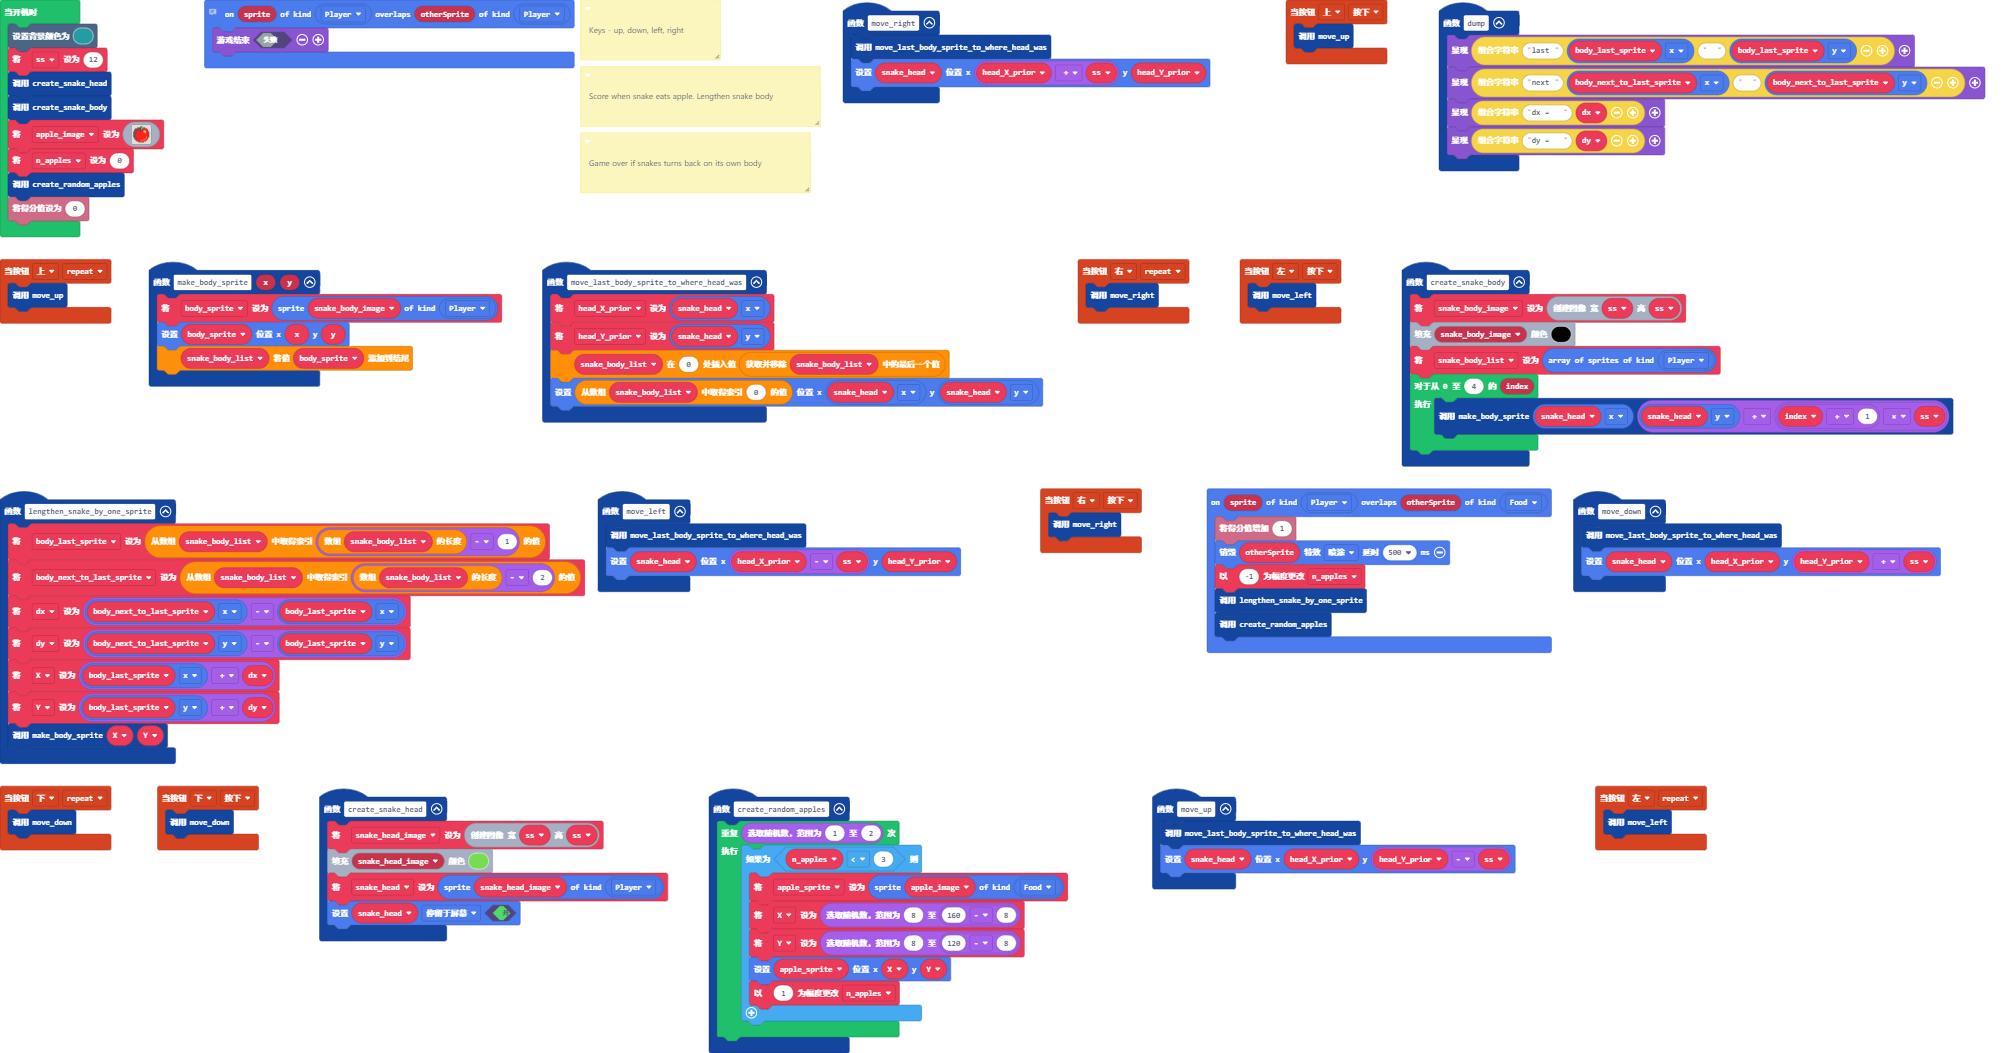
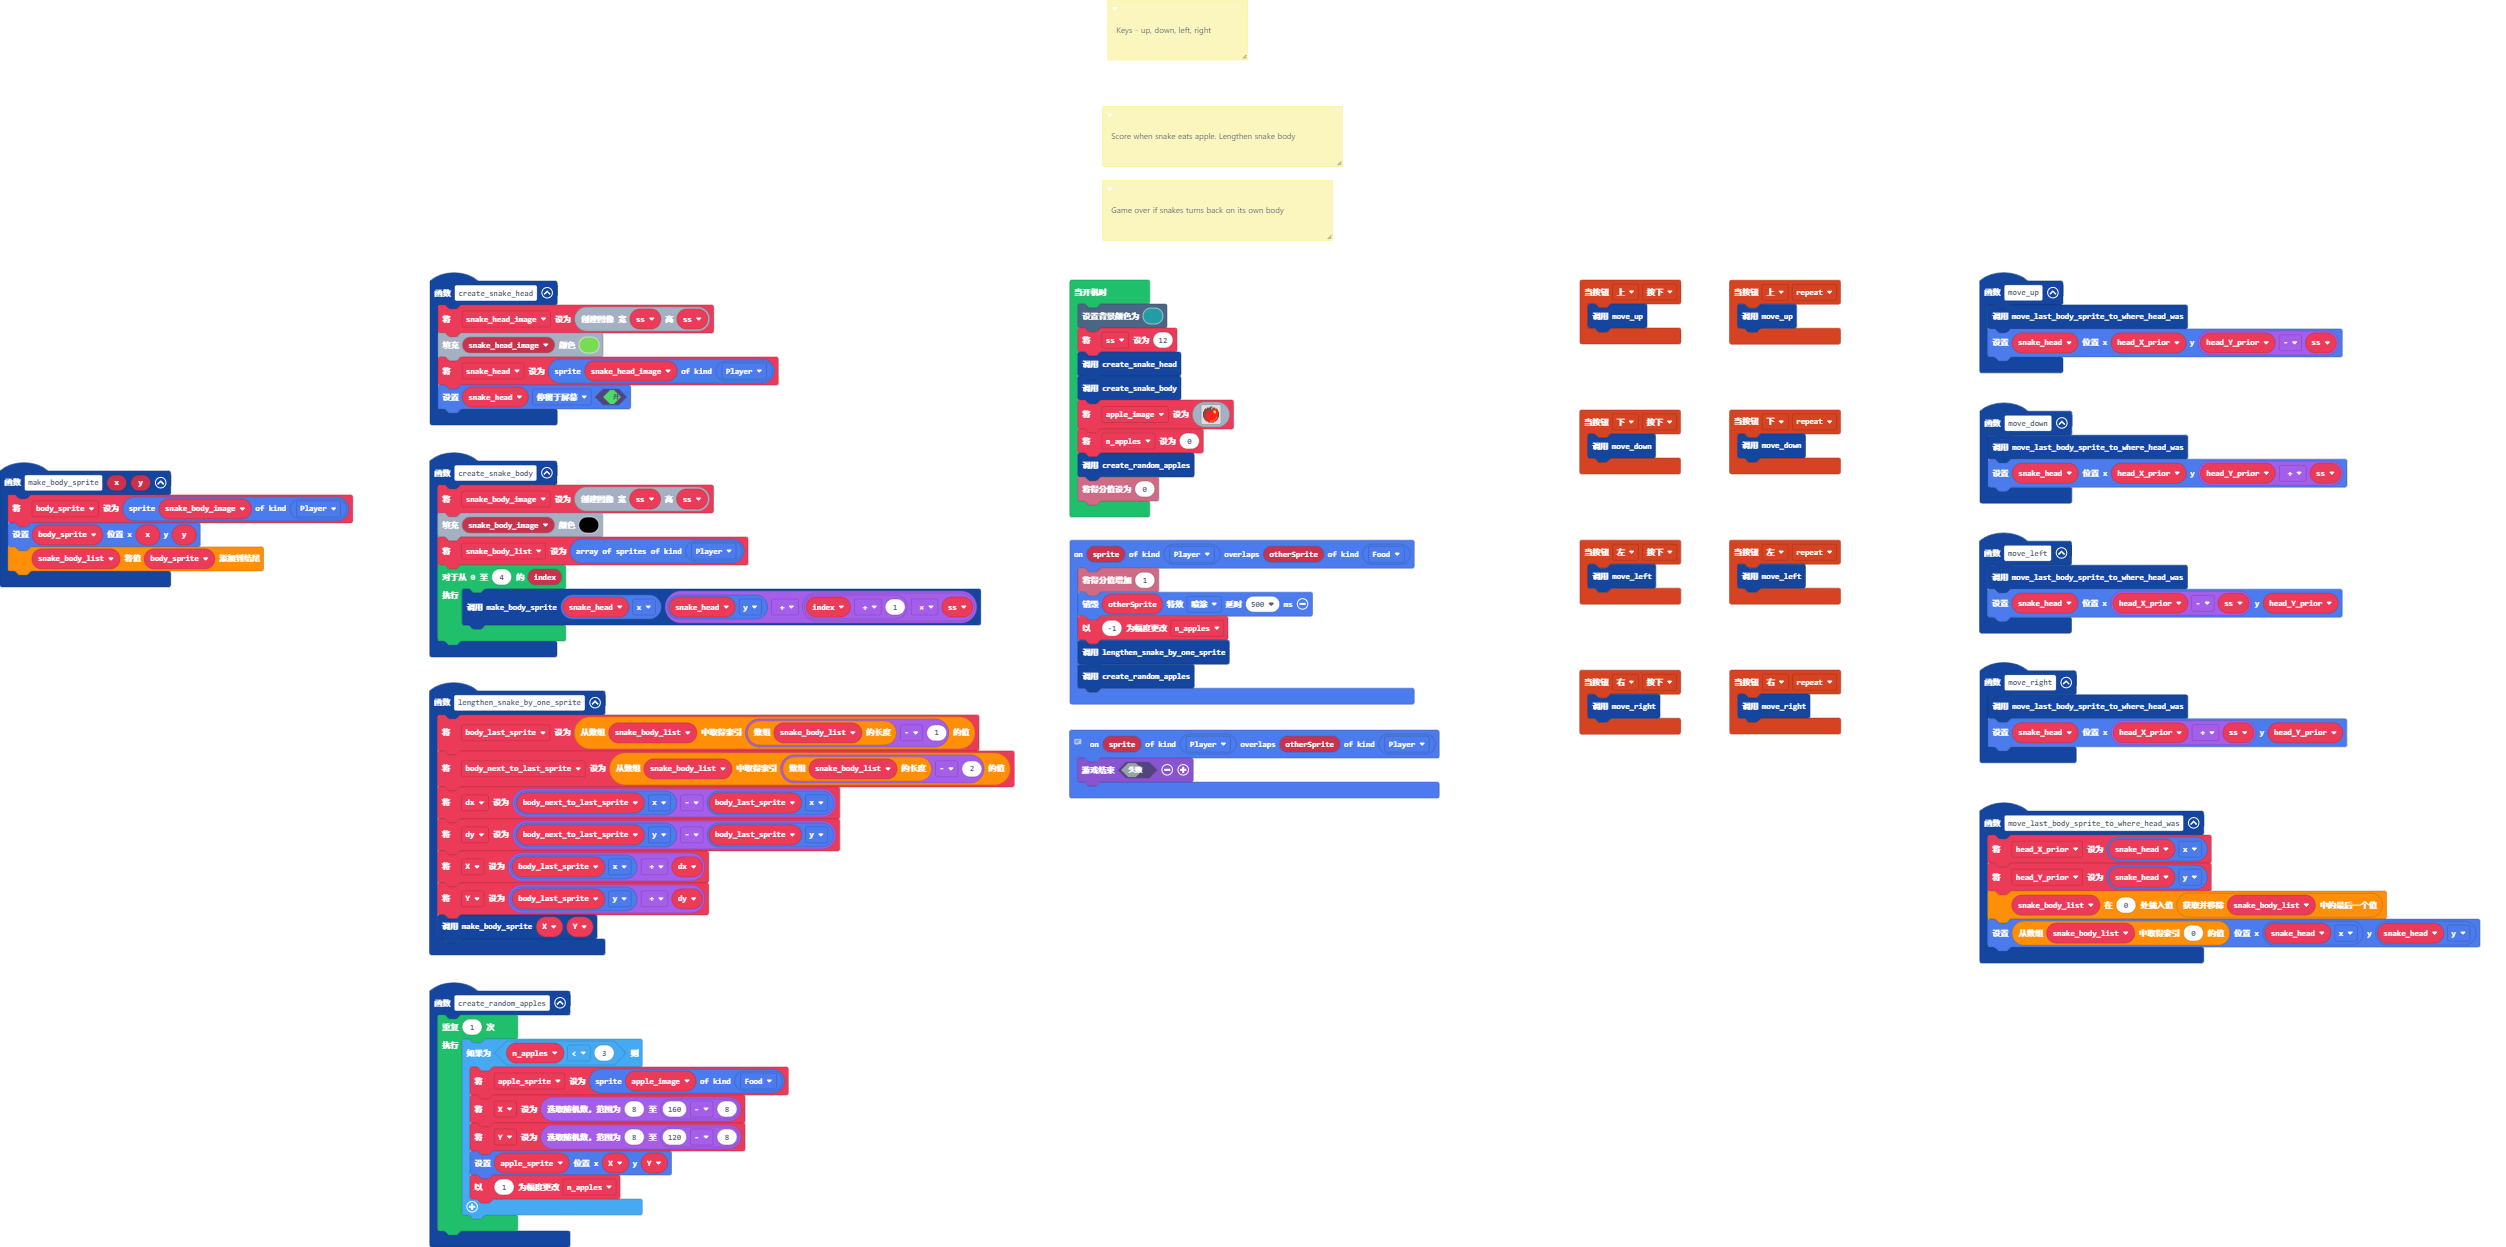
优化画面

diff --git a/main.ts b/main.ts
@@ -7,6 +7,12 @@ enum SpriteKindLegacy {
     snake_head_sprite
 }
 /**
+ * Keys - up, down, left, right
+ */
+/**
+ * Score when snake eats apple. Lengthen snake body
+ */
+/**
  * Game over if snakes turns back on its own body
  */
 function move_right () {
@@ -16,12 +22,6 @@ function move_right () {
 controller.right.onEvent(ControllerButtonEvent.Repeated, function () {
     move_right()
 })
-function dump () {
-    game.splash("last " + body_last_sprite.x + "  " + body_last_sprite.y)
-    game.splash("next " + body_next_to_last_sprite.x + "  " + body_next_to_last_sprite.y)
-    game.splash("dx =   " + dx)
-    game.splash("dy =   " + dy)
-}
 controller.up.onEvent(ControllerButtonEvent.Pressed, function () {
     move_up()
 })
@@ -63,12 +63,6 @@ function move_left () {
     move_last_body_sprite_to_where_head_was()
     snake_head.setPosition(head_X_prior - ss, head_Y_prior)
 }
-/**
- * Keys - up, down, left, right
- */
-/**
- * Score when snake eats apple. Lengthen snake body
- */
 // Used for debugging above function
 sprites.onOverlap(SpriteKindLegacy.snake_head_sprite, SpriteKindLegacy.snake_body_sprite, function (sprite, otherSprite) {
     game.over(false)
@@ -100,7 +94,7 @@ controller.left.onEvent(ControllerButtonEvent.Pressed, function () {
     move_left()
 })
 function create_random_apples () {
-    for (let index = 0; index < randint(1, 2); index++) {
+    for (let index = 0; index < 1; index++) {
         if (n_apples < 3) {
             apple_sprite = sprites.create(apple_image, SpriteKindLegacy.Food)
             X = randint(8, 160 - 8)
@@ -121,13 +115,13 @@ let apple_sprite: Sprite = null
 let snake_head_image: Image = null
 let Y = 0
 let X = 0
-let snake_body_list: Sprite[] = []
-let snake_body_image: Image = null
-let body_sprite: Sprite = null
 let dy = 0
 let dx = 0
 let body_next_to_last_sprite: Sprite = null
 let body_last_sprite: Sprite = null
+let snake_body_list: Sprite[] = []
+let snake_body_image: Image = null
+let body_sprite: Sprite = null
 let head_Y_prior = 0
 let head_X_prior = 0
 let snake_head: Sprite = null
